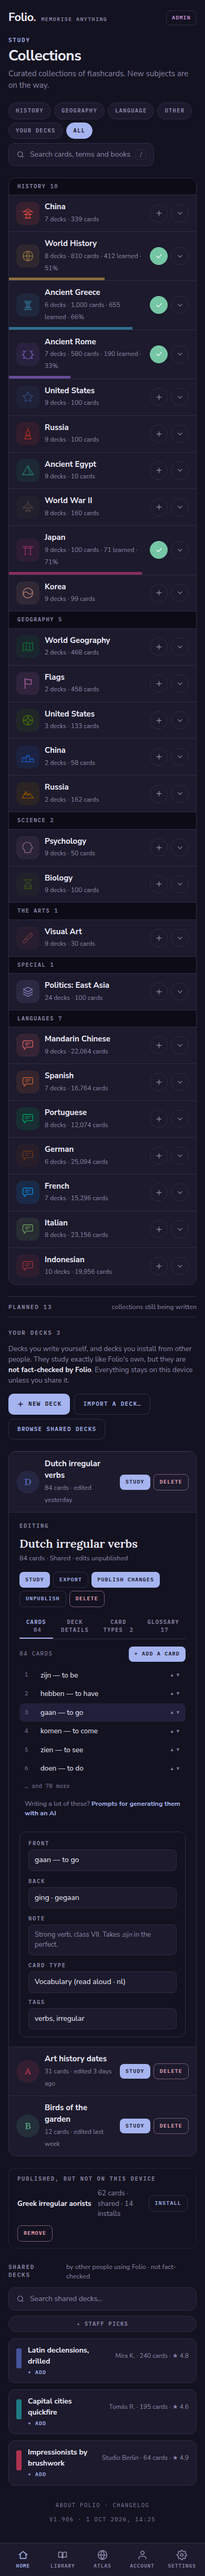
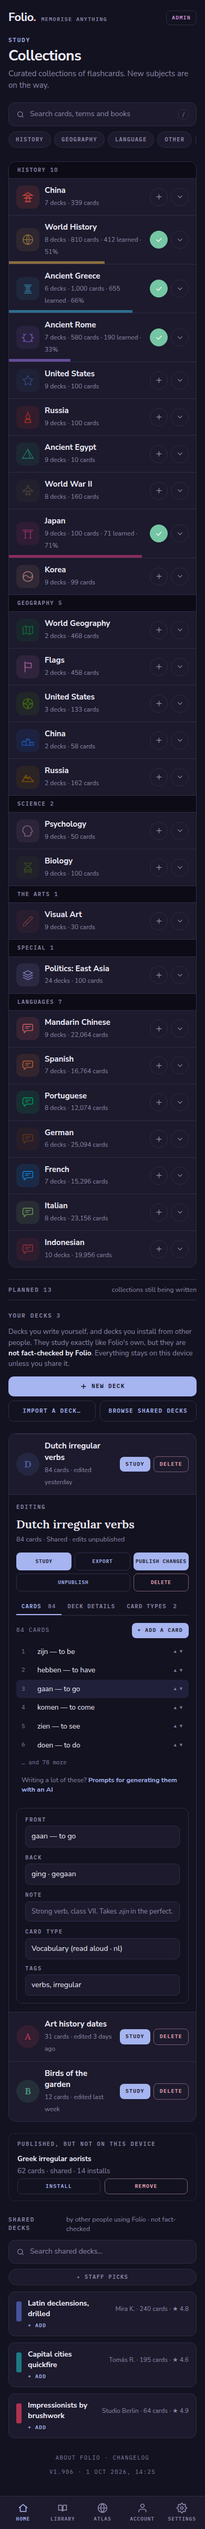
Composed Collections page: tidier phone layout for the tabs, actions, editor head and orphans
Claude-Session: https://claude.ai/code/session_01FZqnjJL9hSmvynj3x2xjzS

diff --git a/docs/mockups/collections-redesigns/final/build.js b/docs/mockups/collections-redesigns/final/build.js
@@ -25,7 +25,18 @@ const CSS = `
 .fr .acts2{display:flex; gap:6px; align-items:center;}
 .mine{grid-template-columns:44px 1fr auto auto;} .mine .mark{border-radius:50%;}
 .ledger .editor{border:0; border-radius:0; border-top:1px solid var(--rule); box-shadow:none; background:var(--paper);}
-@media (max-width:640px){ .fr{grid-template-columns:40px 1fr auto; padding:12px 14px;} .fr .try, .fr .reach{display:none;} .fr::before{top:auto; height:5px; border-right:0; background:var(--c);} .fr[style*="--w:0%"]::before{display:none;} .mine .pub{display:none;} .mine .acts2 .ghost{display:none;} }`;
+@media (max-width:640px){
+  /* the head: search first, full width; then the tabs as one scrolling strip */
+  .tabrow{flex-direction:column-reverse; align-items:stretch; gap:10px;} .tabrow .search{width:100%;}
+  .tabs{flex-wrap:nowrap; overflow-x:auto; min-width:0; width:100%; padding-bottom:4px; scrollbar-width:none;} .tabs::-webkit-scrollbar{display:none;} .ctab{flex:none;}
+  /* Your decks' three actions: one full button, two half buttons */
+  .acts{display:grid; grid-template-columns:1fr 1fr; gap:8px;} .acts .btn{justify-content:center;} .acts .btn:first-child{grid-column:1 / -1;}
+  /* the editor's actions: a 3 + 2 grid, each centred */
+  .ed-head{flex-direction:column; align-items:stretch;} .ed-acts{display:grid; grid-template-columns:1fr 1fr 1fr; gap:6px; min-width:0;} .ed-acts .btn{justify-content:center; padding:9px 4px; font-size:9.5px; letter-spacing:.08em; min-width:0;} .ed-acts .btn:nth-child(4){grid-column:1 / 3;} .ed-acts .btn:nth-child(5){grid-column:3;}
+  .ed-tabs{overflow-x:auto; min-width:0; scrollbar-width:none;} .editor{padding:16px 14px;} .ed-cols{min-width:0;} .ed-tabs::-webkit-scrollbar{display:none;} .et{white-space:nowrap; flex:none; padding:9px 10px;}
+  /* the orphan: title and meta stacked, the two buttons on their own row */
+  .orow{display:grid; grid-template-columns:1fr 1fr; gap:4px 8px;} .orow b{grid-column:1 / -1;} .orow span{grid-column:1 / -1; flex:none;} .orow .btn{justify-content:center;}
+  .fr{grid-template-columns:40px 1fr auto; padding:12px 14px;} .fr .try, .fr .reach{display:none;} .fr::before{top:auto; height:5px; border-right:0; background:var(--c);} .fr[style*="--w:0%"]::before{display:none;} .mine .pub{display:none;} .mine .acts2 .ghost{display:none;} }`;
 
 const row = ([id,n,have,plan,st,decks]) => `<a class="fr" href="#coll" style="--c:${col(id)}; --w:${pct(st,have)}%"><span class="mark" style="--c:${col(id)}">${ic(id)}</span><span><b class="name">${n}</b><span class="m">${decks} decks · ${fmt(have)} cards${st?` · ${st} learned · ${pct(st,have)}%`:""}</span></span><span class="reach${have>=plan?" full":""}">${have>=plan?"Complete":""}</span><span class="try">Try ten</span><span class="acts2"><span class="ic-btn${ACTIVE.has(id)?" on":""}" aria-label="Add to review"><svg viewBox="0 0 24 24"><path d="${ACTIVE.has(id)?"m5 12 5 5 9-10":"M12 5v14M5 12h14"}"/></svg></span><span class="ic-btn" aria-label="Expand"><svg viewBox="0 0 24 24"><path d="m6 9 6 6 6-6"/></svg></span></span></a>`;
 const langRow = ([id,n,cards,decks]) => `<a class="fr" href="#coll" style="--c:${col(id)}; --w:0%"><span class="mark" style="--c:${col(id)}">${ic(id)}</span><span><b class="name">${n}</b><span class="m">${decks} decks · ${fmt(cards)} cards</span></span><span class="reach"></span><span class="try" style="visibility:hidden">Try ten</span><span class="acts2"><span class="ic-btn" aria-label="Add"><svg viewBox="0 0 24 24"><path d="M12 5v14M5 12h14"/></svg></span><span class="ic-btn" aria-label="Expand"><svg viewBox="0 0 24 24"><path d="m6 9 6 6 6-6"/></svg></span></span></a>`;

diff --git a/docs/mockups/collections-redesigns/final/collections-composed.html b/docs/mockups/collections-redesigns/final/collections-composed.html
@@ -149,7 +149,18 @@
 .fr .acts2{display:flex; gap:6px; align-items:center;}
 .mine{grid-template-columns:44px 1fr auto auto;} .mine .mark{border-radius:50%;}
 .ledger .editor{border:0; border-radius:0; border-top:1px solid var(--rule); box-shadow:none; background:var(--paper);}
-@media (max-width:640px){ .fr{grid-template-columns:40px 1fr auto; padding:12px 14px;} .fr .try, .fr .reach{display:none;} .fr::before{top:auto; height:5px; border-right:0; background:var(--c);} .fr[style*="--w:0%"]::before{display:none;} .mine .pub{display:none;} .mine .acts2 .ghost{display:none;} }
+@media (max-width:640px){
+  /* the head: search first, full width; then the tabs as one scrolling strip */
+  .tabrow{flex-direction:column-reverse; align-items:stretch; gap:10px;} .tabrow .search{width:100%;}
+  .tabs{flex-wrap:nowrap; overflow-x:auto; min-width:0; width:100%; padding-bottom:4px; scrollbar-width:none;} .tabs::-webkit-scrollbar{display:none;} .ctab{flex:none;}
+  /* Your decks' three actions: one full button, two half buttons */
+  .acts{display:grid; grid-template-columns:1fr 1fr; gap:8px;} .acts .btn{justify-content:center;} .acts .btn:first-child{grid-column:1 / -1;}
+  /* the editor's actions: a 3 + 2 grid, each centred */
+  .ed-head{flex-direction:column; align-items:stretch;} .ed-acts{display:grid; grid-template-columns:1fr 1fr 1fr; gap:6px; min-width:0;} .ed-acts .btn{justify-content:center; padding:9px 4px; font-size:9.5px; letter-spacing:.08em; min-width:0;} .ed-acts .btn:nth-child(4){grid-column:1 / 3;} .ed-acts .btn:nth-child(5){grid-column:3;}
+  .ed-tabs{overflow-x:auto; min-width:0; scrollbar-width:none;} .editor{padding:16px 14px;} .ed-cols{min-width:0;} .ed-tabs::-webkit-scrollbar{display:none;} .et{white-space:nowrap; flex:none; padding:9px 10px;}
+  /* the orphan: title and meta stacked, the two buttons on their own row */
+  .orow{display:grid; grid-template-columns:1fr 1fr; gap:4px 8px;} .orow b{grid-column:1 / -1;} .orow span{grid-column:1 / -1; flex:none;} .orow .btn{justify-content:center;}
+  .fr{grid-template-columns:40px 1fr auto; padding:12px 14px;} .fr .try, .fr .reach{display:none;} .fr::before{top:auto; height:5px; border-right:0; background:var(--c);} .fr[style*="--w:0%"]::before{display:none;} .mine .pub{display:none;} .mine .acts2 .ghost{display:none;} }
 </style>
 </head>
 <body>
